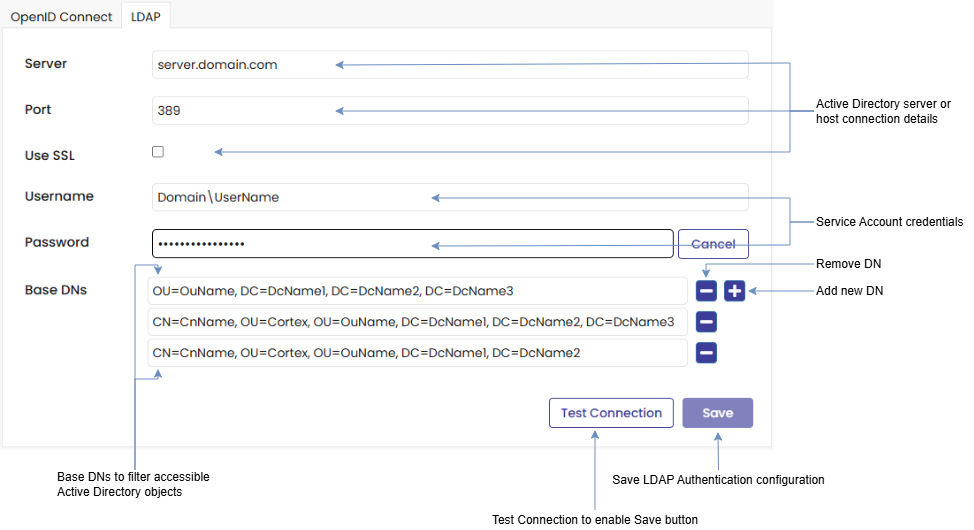
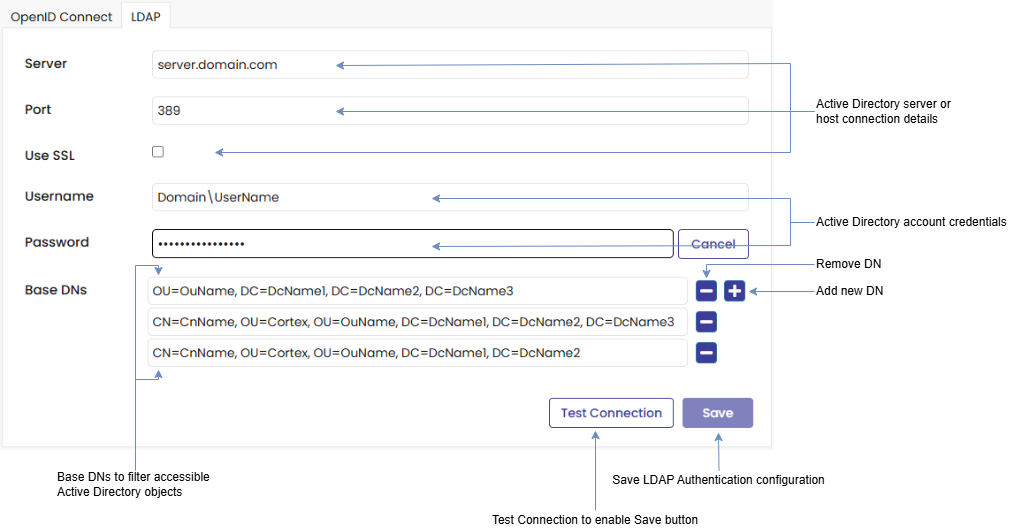
Changes following PO Review of Authentication

diff --git a/content/en/docs/2025.9/Guides/user-guides/user-interfaces/gateway/Admin/Authentication.md b/content/en/docs/2025.9/Guides/user-guides/user-interfaces/gateway/Admin/Authentication.md
@@ -1,7 +1,7 @@
 ---
 title: "Authentication"
 linkTitle: "Authentication"
-description: "Setup authentication for accessing {{% ctx %}} Gateway."
+description: "Setup authentication providers used to control access to {{% ctx %}} Gateway."
 weight: 20
 ---
 
@@ -9,48 +9,52 @@ weight: 20
 
 ## Summary
 
-The Authentication page is used to setup authentication for accessing {{% ctx %}} Gateway.
+The Authentication page is used to setup one or more authentication providers used to control access to {{% ctx %}} Gateway.
 
 ## Anatomy
 
-Authentication can be configured using [LDAP Authentication][] against a Microsoft Active Directory, and [OpenID Connect (OIDC) Authentication][OIDC Authentication] with one or more providers.
+Authentication can be configured using [LDAP][] against a Microsoft Active Directory, and [OpenID Connect (OIDC)][OIDC] with one or more providers.
 
-### LDAP Authentication
+### LDAP
 
 {{< figure src="/images/Authentication - LDAP.png" title="LDAP Authentication Configuration" >}}
 
 LDAP authentication defines the connection to a Microsoft Active Directory server to authorise Active Directory users with different roles and permissions within {{% ctx %}} Gateway.
 
-The LDAP form provides for the connection details to the LDAP server (URL or domain), port and protocol, plus the credentials of an AD User (typically a Service Account) that can read the Active Directory.
+It requires connection details to the Active Directory server (URL or domain), port and protocol, plus the credentials of an Active Directory account (typically a service account) that can read the Active Directory.
 
-For additional security, and to avoid the clutter of irrelevant information, it is possible to filter the Active Directory information available for use in {{% ctx %}} Gateway to that defined by a set of Base DNs.
+For additional security, and to avoid the clutter of irrelevant information, it is possible to filter the Active Directory information available for use in {{% ctx %}} Gateway to that defined by a set of [Base DNs (Distinguished Names)][DNs].
 
-The fields available in the LDAP form are:
+{{% ctx %}} Roles and Flow Editor permissions can be assigned to groups set up in Active Directory.
+
+The fields available are:
 
 * `Server` – specifies either URL or IPv4 address of the Active Directory server, or the domain name for the Active Directory domain.
-* `Port` – specifies the IPv4 port used to access Active Directory, typically either 389 or 636.
-* `Use SSL` – a checkbox to select the LDAPS protocol rather than LDAP.
-* `Username` – the name of a user with read permissions in Active Directory. A Service Account is used.
-* `Password` – the password associated with the username entered in the Username field.
-* `Base DNs` – the Active Directory objects that can be accessed by {{% ctx %}} Gateway. The identity of the objects is expressed using their Distinguished Names. More than one Distinguished Name can be set to refer to multiple objects within Active Directory. If no Distinguished Names are set, the whole of Active Directory is accessible.
+* `Port` – specifies the port used to access Active Directory, typically either 389 for LDAP or 636 for LDAPS.
+* `Use SSL` – a checkbox to connect via the LDAPS protocol rather than LDAP.
+* `Username` – the username of an account with read permissions in Active Directory; typically a service account is used.
+* `Password` – the password associated with the username entered in the `Username` field.
+* `Base DNs` – the Active Directory objects that can be accessed by {{% ctx %}} Gateway. The identity of the objects is expressed using their Distinguished Names. More than one Distinguished Name can be set to refer to multiple objects within the Active Directory. If no Distinguished Names are set, the whole of the Active Directory is accessible.
 
-### OpenID Connect Authentication
+### OpenID Connect
 
 {{< figure src="/images/Authentication - OIDC.png" title="Open ID Connect Provider Configuration" >}}
 
-OpenID Connect provides connections to third-party authentication services, e.g. Microsoft Entra. The OpenID Connect tab allows for one or more providers to be configured for users to authenticate with {{% ctx %}} Gateway, using Multi-Factor Authentication (MFA) if required.
+OpenID Connect provides connections to third-party authentication services to authenticate users in {{% ctx %}} Gateway, using Multi-Factor Authentication (MFA) if the provider supports it.
 
-Groups set up in Microsoft Entra, provide for {{% ctx %}} Role assignment and {{% ctx %}} Flow Editor permissions.
+The OpenID Connect tab currently only supports the Microsoft Entra provider but allows for one or more instances to be configured.
 
-The fields available in the OIDC form are:
+{{% ctx %}} Roles and Flow Editor permissions can be assigned to groups set up in Microsoft Entra.
+
+The fields available are:
 
 * `Provider Type` – the OIDC provider type. Currently, only Microsoft is the OIDC provider supported.
 * `Identifier` – free-format, friendly unique name for this provider.
 * `Display Name` – the text displayed in the {{% ctx %}} Gateway sign-in button.
-* `Authority` – the URL for authentication to which to send authentication requests.
+* `Authority` – the URL to send authentication requests to.
 * `Tenant Identifier` – the Microsoft Entra Tenant ID for the organisation managing authentication.
 * `Client Identifier` – the unique identifier to identify the {{% ctx %}} Gateway application to the authentication provider.
-* `Client Secret` – the client secret that validate the Client Identifier to the authentication provider.
+* `Client Secret` – the client secret that validates the {{% ctx %}} Gateway application with the authentication provider.
 
 ## Actions
 
@@ -87,10 +91,11 @@ None
 * [Configure LDAP Authentication][Configure LDAP Authentication tutorial]
 * [Add New OpenID Connect Authentication Provider][Add New OpenID Connect Authentication Provider tutorial]
 
-[OIDC Authentication]: {{< ref "#openid-connect-authentication" >}}
-[LDAP Authentication]: {{< ref "#ldap-authentication" >}}
+[OIDC]: {{< ref "#openid-connect" >}}
+[LDAP]: {{< ref "#ldap" >}}
 
 [Add New OpenID Connect Authentication Provider tutorial]: {{< url path="Cortex.Tutorials.Administration.Authentication.OpenID" >}}
 [Configure LDAP Authentication tutorial]: {{< url path="Cortex.Tutorials.Administration.Authentication.LDAP" >}}
 
 [configure OIDC provider]: {{< url path="Cortex.Faqs.ConfigureOidcAuthentication.MainDoc" >}}
+[DNs]: {{< url path="MSDocs.Windows.Ldap.DNs" >}}

diff --git a/content/en/docs/2025.9/FAQs/configure-oidc-authentication/microsoft-entra.md b/content/en/docs/2025.9/FAQs/configure-oidc-authentication/microsoft-entra.md
@@ -19,7 +19,7 @@ In order to configure a Microsoft Entra Provider a Microsoft Azure account with 
     1. Enter a meaningful Name for the {{% ctx %}} Gateway application.
     1. Select the appropriate Supported account type, e.g. `Accounts in this organizational directory only`.
     1. Click `Register`.
-1. Add a Redirect URL:
+1. Add a Redirect URI:
     1. Select the application registration created in Step 1.
     1. Click `Redirect URIs`.
     1. Click `+ Add a platform`.
@@ -35,16 +35,16 @@ In order to configure a Microsoft Entra Provider a Microsoft Azure account with 
     1. Click `+ Add a permission`
         * Select `Microsoft Graph`
         * Select `Application permissions`.
-        * Locate and Expand `GroupMember` and select `GroupMember.Read.All` to allow the application to authenticate itself without user interaction or consent.
+        * Locate and expand `GroupMember` and select `GroupMember.Read.All` to allow the application to authenticate itself without user interaction or consent.
         * Click `Add permissions`.
     1. Click `+ Add a permission` again.
         * Select `Microsoft Graph`
         * Select `Delegated permissions`
-        * Locate and Expand `Openid permissions`, and select:
-            * `email` to allow access view the users’ email address.
+        * Locate and expand `Openid permissions`, and select:
+            * `email` to allow access to view the users’ email address.
             * `offline_access` to maintain access to data already accessed.
             * `openid` to allow users to sign in.
-            * `profile` to allow access to view user’s basic profile.
+            * `profile` to allow access to view the user’s basic profile.
         * Click `Add permissions`.
 1. Configure the token for group claim:
     1. Select the application registration created in Step 1.
@@ -65,8 +65,8 @@ In order to configure a Microsoft Entra Provider a Microsoft Azure account with 
         * Set `Who can consent?` to `Admins and users`.
         * Enter an `Admin consent display name`, e.g. `Read Flows`.
         * Enter an `Admin consent description`, e.g. `Allows {{% ctx %}} client to read flows`.
-        * Enter an `User consent display name`, e.g. `Read Your Flows`.
-        * Enter an `User consent description`, e.g. `Allows {{% ctx %}} client to read Flows`.
+        * Enter an `User consent display name`, e.g. `Read Your flows`.
+        * Enter an `User consent description`, e.g. `Allows {{% ctx %}} client to read flows`.
         * Ensure `State` is set to `Enabled`.
     1. Click `Add scope`.
 1. Create Credentials for the Application:

diff --git a/content/en/docs/2025.9/FAQs/configure-oidc-authentication/_index.md b/content/en/docs/2025.9/FAQs/configure-oidc-authentication/_index.md
@@ -1,6 +1,6 @@
 ---
 title: "How do I configure OpenID Connect authentication?"
 linkTitle: "How do I configure OpenID Connect authentication?"
-description: "Instructions on how to configure OpenID Connect authentication."
+description: "Instructions on how to configure OpenID Connect authentication for {{% ctx %}} Gateway."
 weight: 300
 ---

diff --git a/content/en/docs/2025.9/Tutorials/Administration/authentication.md b/content/en/docs/2025.9/Tutorials/Administration/authentication.md
@@ -1,7 +1,7 @@
 ---
 title: "Authentication"
 linkTitle: "Authentication"
-description: "This section includes tutorials about configuring authentication."
+description: "This section includes tutorials about setting up authentication providers used to control access to {{% ctx %}} Gateway."
 weight: 20
 ---
 
